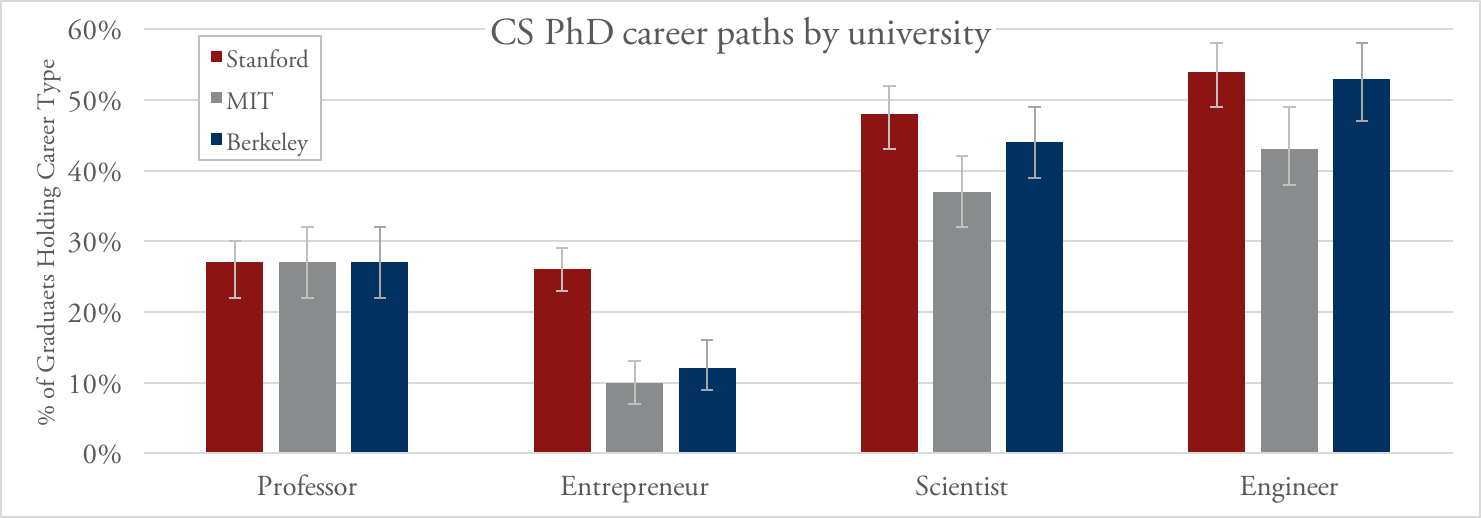
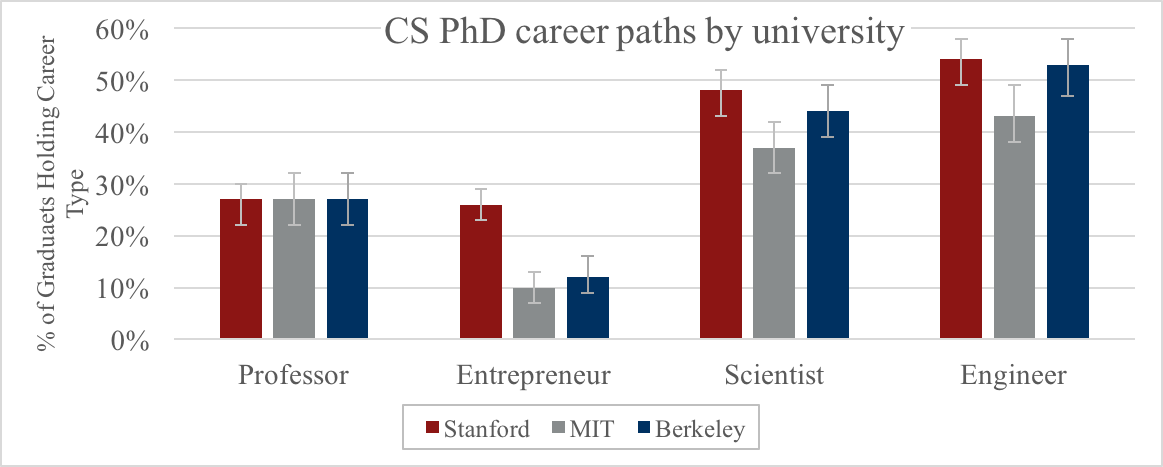
tweaking images

diff --git a/static/templates/demo/cs-phd.html b/static/templates/demo/cs-phd.html
@@ -4,7 +4,7 @@
     <!-- logo-container -->
     <div class="logo-overlay" flex="50" flex-xs="100">
       <div class="logo-container">
-        <h2 class="logo-text">Which CS grad school guarantees the best job?</h2>
+        <h2 class="logo-text">Comparing the job outcomes of top CS <span style="white-space: nowrap;">grad schools</span></h2>
         <p class="logo-subtitle"><a href="http://hci.stanford.edu/msb">Michael Bernstein</a>, Jun 26 2017</p>
       </div>
     </div>
@@ -15,13 +15,11 @@
 <div class="light section textblock" id="intro">
   <div layout="row" layout-align="center" layout-margin="">
     <div flex="90" flex-md="70" flex-lg="50" class="free-height">
-      <p>So you're planning to spend the next few years of your life in graduate school to push the boundaries of Computer Science. Your friends and mentors suggest that you look carefully at the top-ranked departments. You start looking, you start talking to people, and all of a sudden everything gets complicated.</p>
-
-      <p>Are there differences between schools? As an MIT Ph.D. graduate and Stanford faculty member, this is a question I have a personal stake in. Rumors abound: School X is better at producing faculty members, School Y is better at producing startups, the list goes on. If you want to be a professor, should you go to one and not the others?</p>
+      <p>So you're planning to spend the next few years of your life in graduate school to push the boundaries of Computer Science. Your friends and mentors suggest that you look carefully at the top-ranked departments. You start looking, you start talking to people, and all of a sudden everything gets complicated. Are there differences between schools? As an MIT Ph.D. graduate and Stanford faculty member, this is a question I have a personal stake in. Rumors abound: School X is better at producing faculty members, School Y is better at producing startups, the list goes on. If you want to be a professor, should you go to one and not the others?</p>
 
       <p>Today I'm going to use a little crowdsourcing to show how on nearly every outcome, <b>top CS departments have identical outcomes for their Ph.D. graduates, including becoming a professor</b>:</p>
 
-      <div><img width="100%" src="static/images/demo/vis-allcareer.png"/></div>
+      <div><img width="100%" src="static/images/demo/vis-allcareer-sketched.png"/></div>
 
       <p>Want more? Let's go.</p>
 
